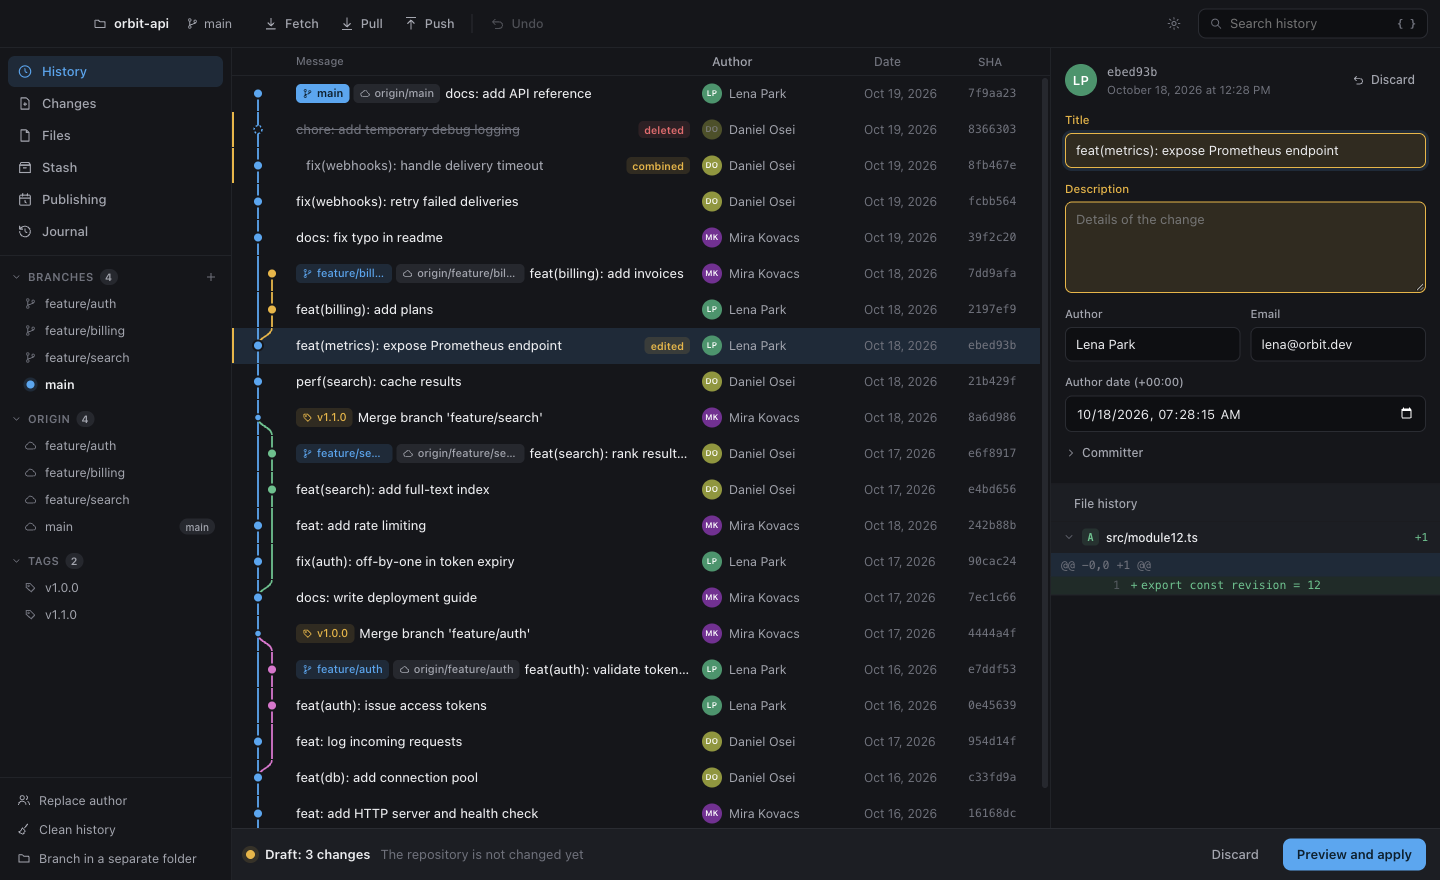
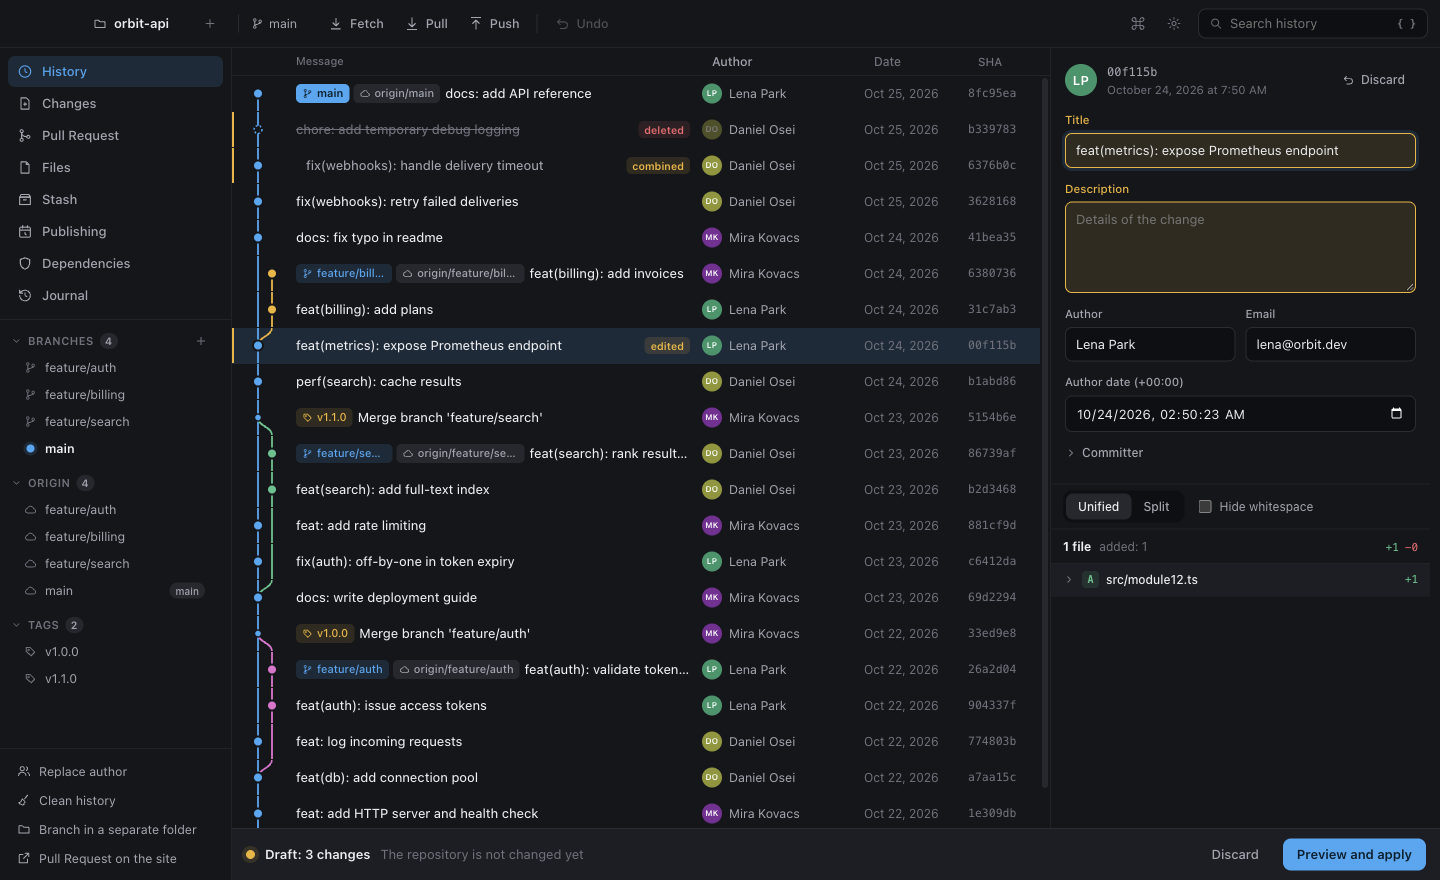
Describe the new everyday features in the READMEs and design notes
The READMEs group the new work into everyday Git, pull and merge
requests, and working fast, with screenshots of a split diff and of
pull requests in the app. The design notes cover diffs and staging by
line, tabs and background fetch, signing new commits and the API token.
The roadmap lists what is still missing next to GitKraken and Tower.

diff --git a/docs/DESIGN.md b/docs/DESIGN.md
@@ -53,7 +53,9 @@ Chronicle — настольный редактор истории git для ma
 
 ## GitHub и GitLab
 
-Приложение не входит в аккаунт и не обращается к API серверов. С сервером работает системный git с ключами и настройками этого компьютера. Тип сервера определяется по адресу remote, и от него зависят только ссылки на сайт: запросы, настройки защиты и основной ветки.
+Приложение не входит в аккаунт. С репозиторием на сервере работает системный git с ключами и настройками этого компьютера. Тип сервера определяется по адресу remote, и от него зависят ссылки на сайт: запросы, настройки защиты и основной ветки.
+
+API сервера нужен только для Pull Request и Merge Request, и только если человек добавил личный токен в настройках. Токен сначала проверяется запросом владельца, затем шифруется через асинхронный `safeStorage` и хранится в основном процессе. В интерфейс он не передаётся никогда, а уходит только на API своего сервера: `api.github.com`, `/api/v3` у GitHub Enterprise, `/api/v4` у GitLab. Список открытых запросов вместе со статусом проверок берётся одним запросом GraphQL, создание идёт через REST. Если имя своего сервера не говорит о его типе, тип берётся из токена, сохранённого для этого сервера. Запрос из форка забирается через ссылку, которую сервер хранит для каждого запроса (`refs/pull/N/head`, `refs/merge-requests/N/head`), в ветку `pr/N` или `mr/N`. Существующая ветка при этом двигается только вперёд.
 
 Переименование ветки на сервере идёт через git: создаётся новая ветка, затем удаляется старая. Открытые запросы от старой ветки могут закрыться, а основную ветку сервер удалить не даст, пока её не сменят на сайте. Перед таким шагом приложение предупреждает об этом.
 
@@ -101,7 +103,17 @@ Lock-файлы читаются из последнего коммита чер
 
 Тема задаётся через `nativeTheme.themeSource`, поэтому CSS следует ей через `prefers-color-scheme`, а системные окна меняют тему вместе с приложением.
 
+## Изменения и индекс
+
+Diff приходит от git один раз, а вид в одну или две колонки строится из него в интерфейсе. Подсветка синтаксиса размечает каждую сторону куска целиком, поэтому многострочные комментарии и строки окрашены верно. Очень длинные строки остаются без подсветки. Выбранные строки превращаются в патч одного куска: невыбранные удаления становятся контекстом, невыбранные добавления выпадают, а при обратном применении наоборот. Патч применяется через `git apply --cached`, как и куски целиком. Пока пробелы скрыты, diff не совпадает с файлами, поэтому куски и строки применять нельзя.
+
+## Вкладки и фоновый fetch
+
+У каждой вкладки свой контекст репозитория. Скрытые вкладки остаются смонтированными и не опрашивают репозиторий, а при возвращении сразу обновляются. Фоновый fetch идёт сразу после открытия и затем по таймеру, пропускается во время другой операции и запускается без окон пароля: ключ с паролем работает, только если пароль сохранён.
+
 ## Подпись
+
+Подпись новых коммитов настраивается для одного репозитория: SSH- или GPG-ключом, выключена или как в общих настройках git. Меняется только конфиг репозитория. Пароль SSH-ключа ssh-keygen спрашивает через то же окно приложения, что и при push. Подписан ли коммит, читается из самого объекта: без `gpg.ssh.allowedSignersFile` git сообщает о подписи SSH-ключом так же, как об отсутствии подписи. Список GPG-ключей запрашивается, только когда выбран GPG, потому что запуск `gpg` поднимает фоновые службы GnuPG.
 
 Предпросмотр никогда не запускает подпись, чтобы не спрашивать пароль ключа без причины. При применении переписанный коммит, у которого была подпись, подписывается через `git commit-tree -S`, поэтому работают настройки пользователя. Результат сверяется с нужным коммитом побайтно. Если git не смог воспроизвести его точно, коммит записывается без подписи, а предпросмотр сообщает об этом.
 
@@ -115,4 +127,5 @@ Lock-файлы читаются из последнего коммита чер
 6. **Готово.** Перенос ветки на другую с предпросмотром результата, merge и pull с предсказанием конфликтов, поиск по изменениям, история файла и blame, worktree, submodules, LFS, сборка для Linux.
 7. **Готово.** Английский интерфейс и выбор языка, переключатель светлой и тёмной темы.
 8. **Готово.** Проверка зависимостей в 12 форматах lock-файлов шести экосистем, советы по обновлениям, сроки поддержки платформ и исправление в отдельной ветке.
-9. Подпись установщиков и автоматическая установка обновлений. Для них нужны платные сертификаты. ИИ-подсказки для сообщений и разделения.
+9. **Готово.** Индекс по строкам, diff в две колонки с подсветкой синтаксиса и картинками, вкладки, фоновый fetch, палитра команд и горячие клавиши, `.gitignore` из списка изменений, подпись коммитов для репозитория, Pull Request и Merge Request по токену.
+10. Подпись установщиков и автоматическая установка обновлений. Для них нужны платные сертификаты. ИИ-подсказки для сообщений и разделения.

diff --git a/README.md b/README.md
@@ -57,15 +57,27 @@ Take the latest commits off a branch, locally and on the server, and publish the
 
 ### Everyday Git
 
+- **Diffs like in a good editor:** unified or split, with syntax highlighting, an option to hide whitespace-only changes, and before-and-after views of images.
+- **Stage by line.** Stage and discard whole files, single hunks, or just the lines you pick.
 - **Merge and pull with foresight.** Before merging, Chronicle lists the files that will conflict. Pull offers rebase or merge, and with rebase every conflict is resolved in the preview, before anything changes. Conflicts that do happen open in a built-in editor.
+- **.gitignore with a right-click** on a new file: ignore the file, its folder or every file with its extension.
+- **Commit signing** with an SSH or GPG key for one repository, without touching global git settings. The app asks for an SSH key passphrase itself, and the inspector shows whether a commit is signed and whether the signature holds.
 - **Worktrees:** open another branch in its own folder and switch between them in one click.
 - **Submodules** with their state, and **Git LFS** files with download and tracking.
-- **Tabs:** several repositories in one window, each with its own draft and view. **Background fetch** every few minutes keeps the counts on Pull and Push current and never asks for a password.
-- **Commit signing** with an SSH or GPG key for one repository, without touching global git settings. The app asks for an SSH key passphrase itself. The inspector shows whether a commit is signed and whether the signature holds.
-- **Command palette** on ⌘K or Ctrl+K, and shortcuts: views on ⌘1–⌘7, history search ⌘F, settings ⌘,, new tab ⌘T, switching tabs with Ctrl+Tab. Windows and Linux use Ctrl in place of ⌘.
-- **.gitignore without editing it by hand:** right-click a new file in Changes to ignore the file, its folder or every file with its extension.
-- **Unified or split diffs** with syntax highlighting, an option to hide whitespace-only changes, and before-and-after views of images.
-- Commit, push and fetch, staging and discarding of individual hunks and lines, stashes, branches and tags, cherry-pick, revert and reset.
+- Commit, push and fetch, stashes, branches and tags, cherry-pick, revert and reset.
+
+### Pull and merge requests
+
+With a GitHub or GitLab token in the settings, open requests show up right in the app along with the state of their CI checks. Switch to the branch of any request, forks included, or create a new one; if the server lacks the branch, Chronicle pushes it first. It works with github.com, GitHub Enterprise, gitlab.com and self-hosted GitLab.
+
+The token is checked with the server before it is saved, kept encrypted in the system password store, and only ever sent to its own server. Without a token, requests open on the site with the branch already selected.
+
+### Work fast
+
+- **Tabs:** several repositories in one window, each with its own draft and view.
+- **Command palette** on ⌘K: find a view, an action, a branch or a tab by a few letters.
+- **Shortcuts:** views on ⌘1–⌘8, history search ⌘F, settings ⌘,, new tab ⌘T, switching tabs with Ctrl+Tab. Windows and Linux use Ctrl in place of ⌘.
+- **Background fetch** every 10 minutes, adjustable in the settings. The counts on Pull and Push stay current, and a background fetch never asks for a key password.
 
 ### Check dependencies
 
@@ -84,13 +96,17 @@ Chronicle works through your system Git and the SSH keys on your computer. Local
 2. It asks for the key's password if the key has one.
 3. If no key fits, it creates one and walks you through adding it on GitHub or GitLab.
 
-Without a token, pull and merge requests open on the site with the branch already selected. With a GitHub or GitLab token in the settings they live right in the app: the open ones with the state of their CI checks, switching to a request's branch, forks included, and creating a new one, pushing the branch first. The token is kept encrypted in the system password store and only ever sent to its own server, while git still works through SSH keys.
+Pushing and fetching always go through git and SSH keys. The token in the settings is only for listing and creating pull and merge requests.
 
 ## Screenshots
 
 | Preview before applying | Publish on a timer |
 | --- | --- |
 | ![Preview of a rewrite](docs/images/preview.png) | ![Scheduling a publish](docs/images/schedule.png) |
+
+| Split diff | Pull requests in the app |
+| --- | --- |
+| ![A split diff with syntax highlighting and a chosen line](docs/images/changes.png) | ![Open pull requests with the state of their checks](docs/images/requests.png) |
 
 | Connecting with an SSH key |
 | --- |

diff --git a/docs/ROADMAP.md b/docs/ROADMAP.md
@@ -69,6 +69,18 @@
 - **Maven и Gradle** через `osv-scanner`, если он установлен: без запуска сборки их зависимости не прочитать.
 - **Уведомление** о новой уязвимости при ежедневной проверке, один раз на каждую.
 
+## Чего ещё нет по сравнению с GitKraken и Tower
+
+- **Внешние инструменты сравнения и слияния** (`difftool`, `mergetool`): Beyond Compare, Kaleidoscope, VS Code.
+- **Шаблон сообщения коммита и соавторы** (`commit.template`, `Co-authored-by`).
+- **Git Flow** и правила имён веток.
+- **Патчи:** создать из коммитов (`format-patch`) и применить из файла (`am`).
+- **Интерфейс для `bisect`** и просмотр reflog. Сейчас bisect можно только прервать, а журнал покрывает лишь правки самого Chronicle.
+- **Submodules:** добавление, удаление и смена адреса, а не только просмотр и обновление.
+- **Ветки:** пометка «полностью влита» с учётом squash и rebase, скрытие веток в графе.
+- **Pull Request и Merge Request:** комментарии, ревью и слияние в приложении. Сейчас есть список, переход на ветку и создание.
+- **Bitbucket и Azure DevOps:** ссылки на сайт и запросы.
+
 ## Остальное
 
 - **Подпись сборок и автоматическая установка обновлений.** Нужны сертификаты Apple и Windows.
